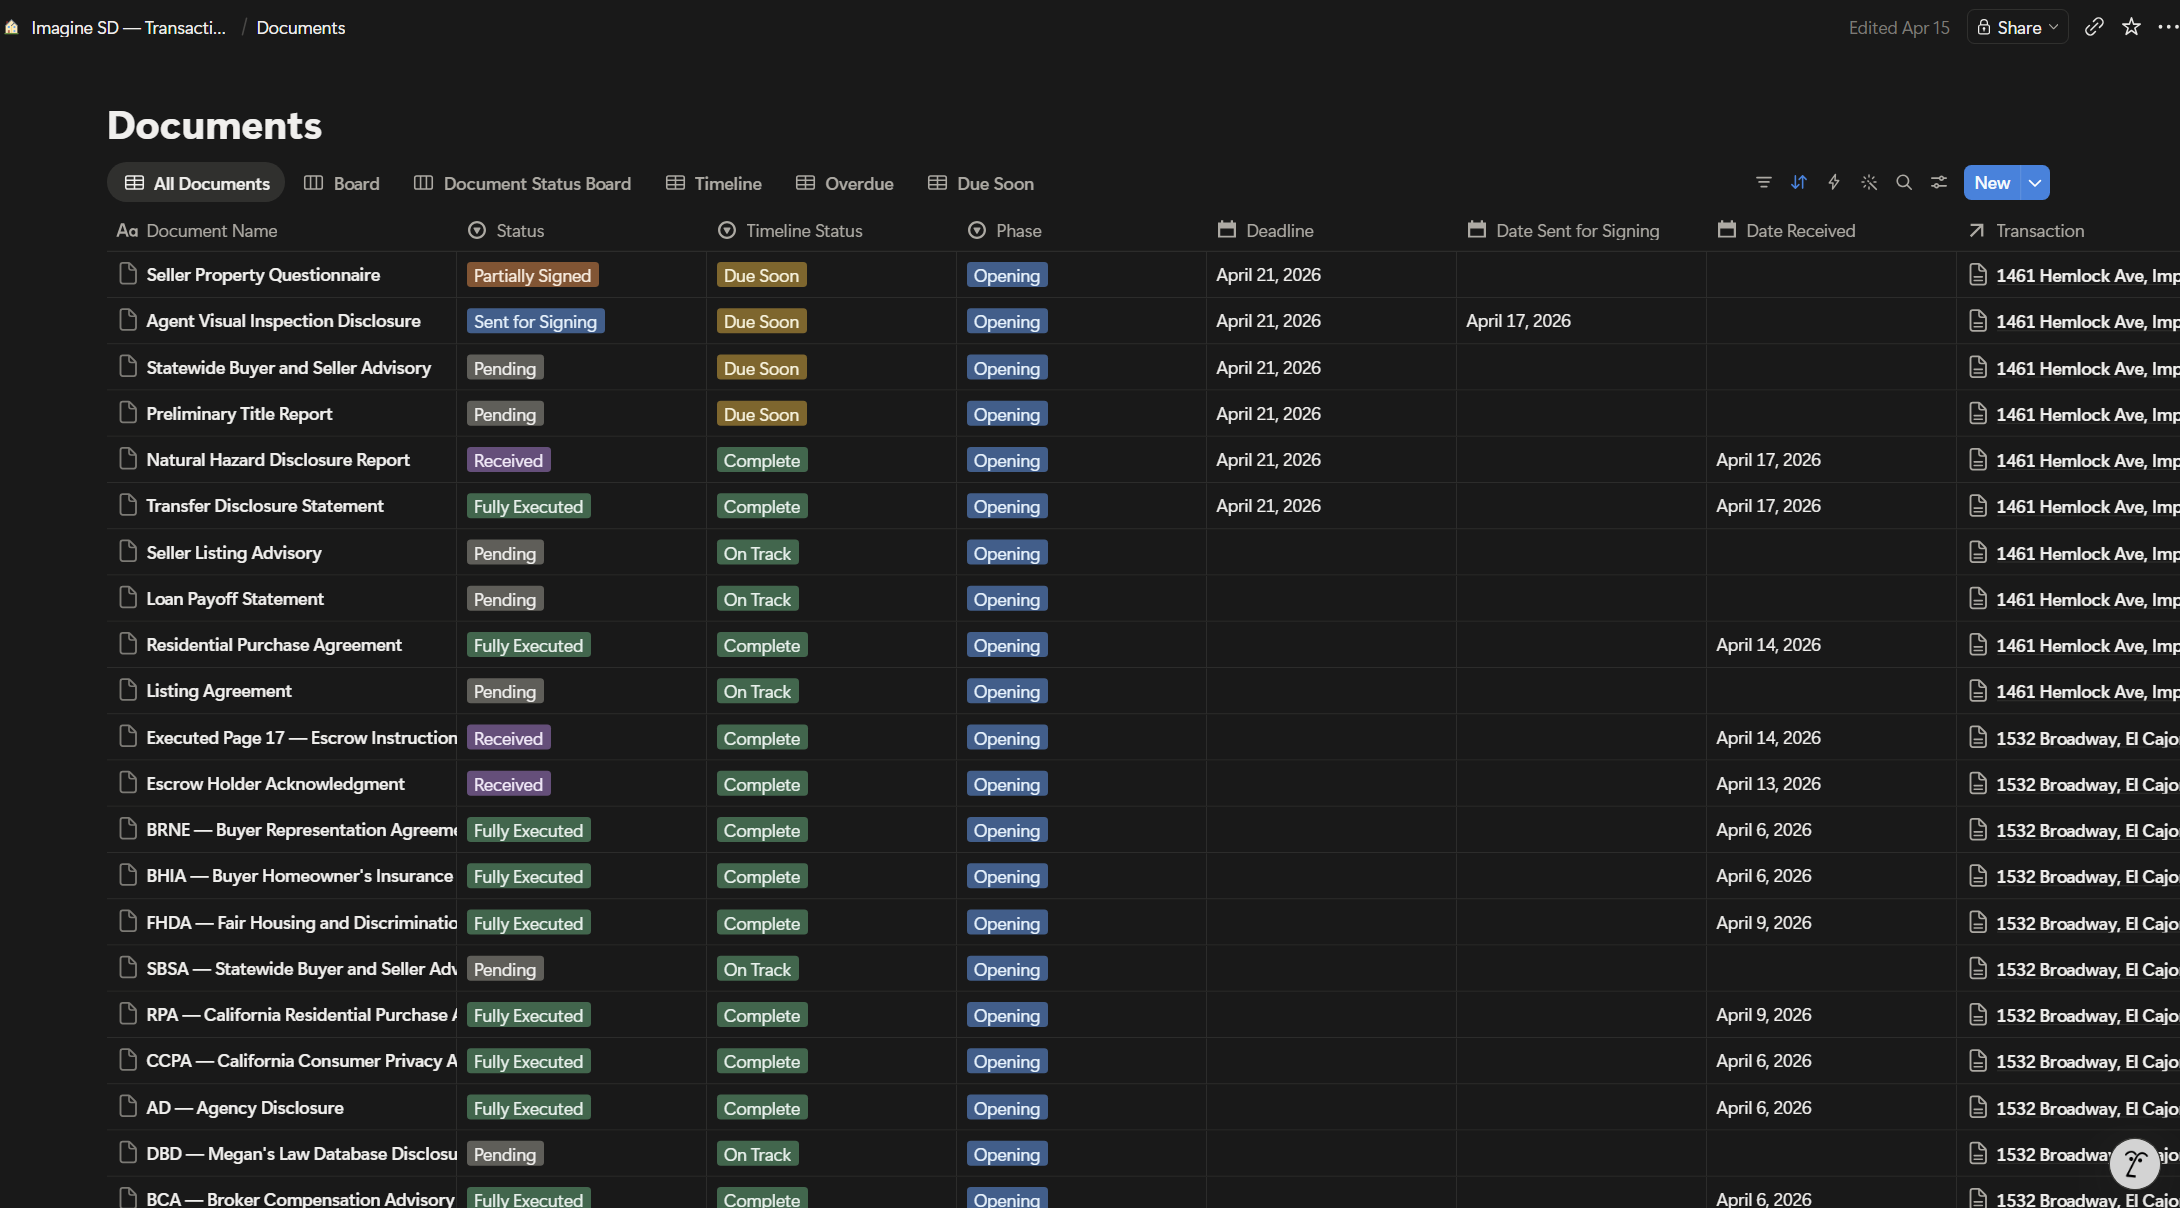
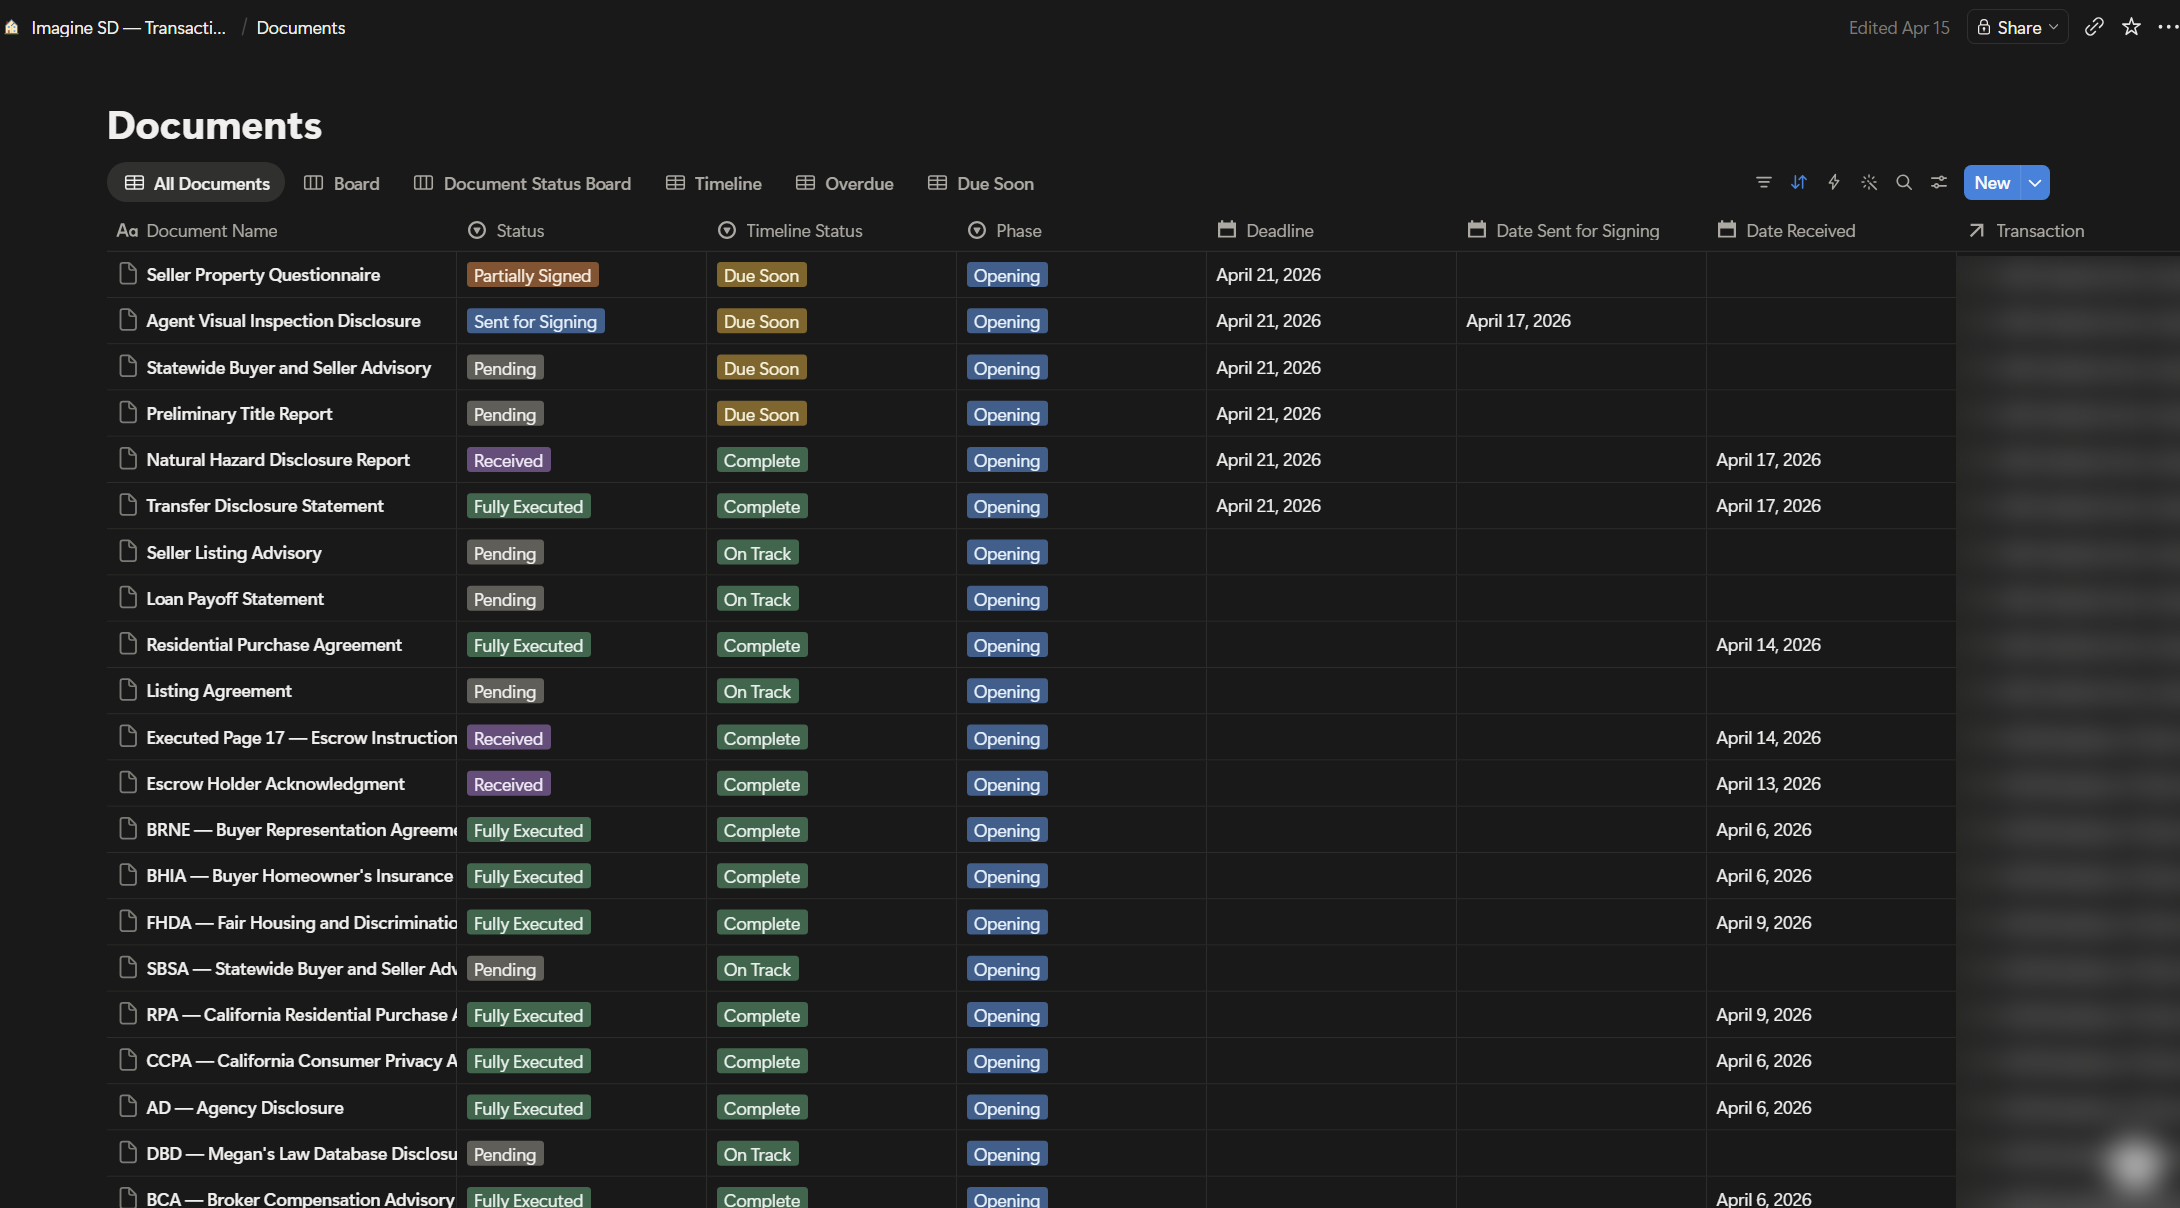
Fix portfolio screenshots
Blurs client property addresses and deal details, moves the Notion TC
hub and tc-sync skill screenshots onto the TC case study where they
belong, drops the mismatched image from the AIRA card, and swaps the
3.5 MB website PNG for a 217 KB JPG.

Changed region(s): [[0.9046, 0.2144, 1.0, 1.0]]

diff --git a/src/data.jsx b/src/data.jsx
@@ -59,17 +59,19 @@ const PORTFOLIO = {
       titleEm: "· Claude skills for live deals",
       year: "2023 – Now",
       type: "Case study",
-      stack: ["Claude Code", "Follow Up Boss", "ZipForms", "DocuSign"],
+      stack: ["Claude Cowork", "Claude Code", "Notion", "DocuSign"],
       desc: "The system behind daily transaction coordination for a San Diego brokerage: Claude skills that track every file, flag what is missing or due, and draft the updates the broker needs.",
       previewLabel: "Transaction tracking",
       image: "images/imaginesd-documents.png",
       gallery: [
-        { src: "images/imaginesd-documents.png", caption: "Documents: deadline, phase and status tracking per transaction" },
+        { src: "images/imaginesd-documents.png", caption: "Documents tracker: status, timeline and deadline for every document on every file (addresses blurred)" },
+        { src: "images/tc-skill-suite.png", caption: "The tc-sync skill: one orchestrator that routes to sub-skills for email, documents, new files and closing" },
+        { src: "images/imaginesd-hub.png", caption: "The Notion hub the agent keeps up to date: transactions, documents, communication log and shift checklists" },
       ],
       caseStudy: {
         problem: "A brokerage usually has several deals open at once, and each one carries a dozen or more dated deadlines across the client, escrow, the lender and the other agent. Checking the status of every file by hand ate hours each week, and one missed contingency date can put a client's deposit at risk.",
         approach: [
-          "Built a set of Claude skills around the daily routine: start-of-day and end-of-day reviews, an inbox scan that matches incoming documents to each file, checklist updates, new-file setup and closing",
+          "Built a set of Claude skills around the daily routine: start-of-day and end-of-day reviews, an inbox scan that matches incoming documents to each file, checklist updates, new-file setup and closing, all written back to one Notion hub",
           "Wrote the rules the skills follow: calendar versus business-day deadline math, a fixed document status vocabulary, and a hard stop on any email carrying wire instructions",
           "Drafted broker updates that carry only deadlines, changes and items that need action, so a status check takes seconds",
         ],
@@ -96,8 +98,7 @@ const PORTFOLIO = {
       previewLabel: "CRM dashboard",
       image: "images/imaginesd-pipelines.png",
       gallery: [
-        { src: "images/imaginesd-pipelines.png", caption: "Pipelines: lead stages from New Lead through Offer Submitted" },
-        { src: "images/imaginesd-hub.png", caption: "Transaction Management hub: the central home for active files" },
+        { src: "images/imaginesd-pipelines.png", caption: "Pipelines: lead stages from New Lead through Offer Submitted (deal details blurred)" },
       ],
       caseStudy: {
         problem: "The ImagineSD team was juggling Luxury Presence, SIDE Okta, Follow Up Boss, and other tools with no single view of leads, clients or transactions. Handoffs leaked, and follow-up discipline was hard to keep up.",
@@ -250,7 +251,6 @@ const PORTFOLIO = {
       type: "AI system",
       stack: ["Claude Code", "Cowork", "MCP"],
       desc: "About 40 skills across Claude Code and Cowork, with scheduled tasks, memory files and connectors to Google Workspace, Notion, Supabase and Hunter. It runs prioritization, drafting and reporting across several client engagements from one git-tracked, backed-up source.",
-      image: "images/aira-skill.png",
     },
     {
       num: "09",
@@ -261,7 +261,7 @@ const PORTFOLIO = {
       type: "Web + SEO",
       stack: ["WordPress", "Analytics", "SEMrush"],
       desc: "Rebuilt and optimized the MedsPLUS site for usability and lead generation: 35% longer average sessions and 20% more lead form conversions.",
-      image: "images/medsplus-website.png",
+      image: "images/medsplus-website.jpg",
     },
   ],
 
